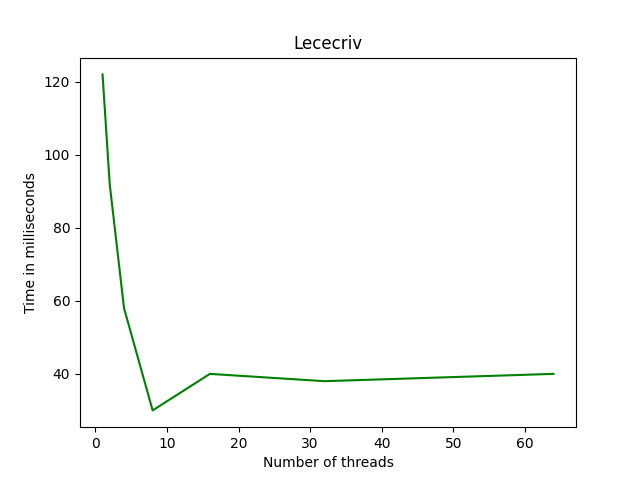
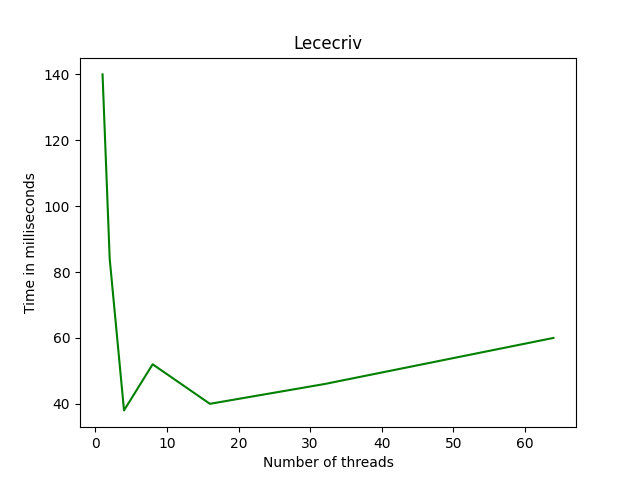
change SemFile

diff --git a/Part2/src/lececrivOurSem.c b/Part2/src/lececrivOurSem.c
@@ -8,14 +8,15 @@
 #include <unistd.h>
 #include <sys/wait.h>
 #include <semaphore.h>
+#include "../Headers/OurSem.h"
 
 
-pthread_mutex_t mutex_readcount;
-pthread_mutex_t mutex_writecount;
-pthread_mutex_t mutex;
+int mutex_readcount;
+int mutex_writecount;
+int mutex;
 
-sem_t wsem;  // accès à la db
-sem_t rsem;
+struct Our_semInit* wsem;  // accès à la db
+struct Our_semInit* rsem;
 
 int readcount=0; // nombre de readers
 int writecount=0;
@@ -39,35 +40,35 @@ void* writer(void* id){
 
     while(total_writings < writings){
             ////printf("le writer %d accède à sa fonction et est bloqué !!\n",id_int);
-            pthread_mutex_lock(&mutex_writecount);
+            lock(&mutex_writecount);
                   ////printf("le writer %d est débloqué, ouf !\n",id_int);
                   writecount++;
                   if(writecount == 1){
                       ////printf("le writer %d attend un reader et debloque le mutex\n",id_int);
-                      sem_wait(&rsem); //attend plus de readers
+                      OurSemWait(rsem); //attend plus de readers
 
                   }
-            pthread_mutex_unlock(&mutex_writecount);
+            unlock(&mutex_writecount);
             
             //printf("le writer %d attend un signal\n",id_int);
-            sem_wait(&wsem);
+            OurSemWait(wsem);
               //printf("le writer %d a reçu un signal et lance sa fonction\n",id_int);
               // section critique, un seul writer à la fois
               if(total_writings != writings){
                 processing_CPU();
                 total_writings++;
               }
-            sem_post(&wsem);
+            OurSemPost(wsem);
             //printf("le writer %d envoie un signal wsem et est bloqué\n",id_int);
 
-            pthread_mutex_lock(&mutex_writecount);
+            lock(&mutex_writecount);
                   //printf("le writer %d est débloqué, deuxième ouf !\n",id_int);
                   writecount--;
                   if (writecount == 0){
                       //printf("le writer %d envoie un signal rsem et debloque le mutex\n",id_int);
-                      sem_post(&rsem); //autorise les readers
+                      OurSemPost(rsem); //autorise les readers
                   }
-            pthread_mutex_unlock(&mutex_writecount);
+            unlock(&mutex_writecount);
             //printf("le writer %d finit sa boucle\n",id_int);
                       
 
@@ -85,43 +86,43 @@ void* reader(void* id){
     while(total_readings < readings){
             //printf("le reader %d accède à sa fonction et est bloqué !!\n",id_int);
             
-            pthread_mutex_lock(&mutex); //un seul reader à la fois a acces à sem_wait
+            lock(&mutex); //un seul reader à la fois a acces à sem_wait
             //printf("le reader %d est débloqué et attend un signal rsem\n",id_int);
                   
-            sem_wait(&rsem); //n'avoir qu'un seul reader qui lit
+            OurSemWait(rsem); //n'avoir qu'un seul reader qui lit
             //printf("le reader %d est bloqué et est a reçu son signal rsem\n",id_int);
                   
-            pthread_mutex_lock(&mutex_readcount);
+            lock(&mutex_readcount);
               // section critique
               readcount++;
               if (readcount==1)
               { // arrivée du premier reader
                 //printf("le reader %d est solo et attend wsem\n",id_int);
         
-                sem_wait(&wsem);// je suis entrain de lire, vous ne pouvez plus écrire
+                OurSemWait(wsem);// je suis entrain de lire, vous ne pouvez plus écrire
               }
               if(writecount == 1){
                   //printf("le reader %d est bloqué envoie un signal rsem\n",id_int);
-                  sem_post(&wsem);
+                  OurSemPost(wsem);
               }
-            pthread_mutex_unlock(&mutex_readcount);
-            sem_post(&rsem);
+            unlock(&mutex_readcount);
+            OurSemPost(rsem);
 
-            pthread_mutex_unlock(&mutex);
+            unlock(&mutex);
 
             if(total_readings != readings){
                 total_readings++;
                 processing_CPU();
             }
 
-            pthread_mutex_lock(&mutex_readcount);
+            lock(&mutex_readcount);
               // section critique
               readcount--;
               if(readcount==0)
               { // départ du dernier reader
-                sem_post(&wsem);
+                OurSemPost(wsem);
               }
-            pthread_mutex_unlock(&mutex_readcount);
+            unlock(&mutex_readcount);
     }
     return (NULL);
 }
@@ -142,15 +143,15 @@ int main(int argc, char* argv[]){
     readings = atoi(argv[3]);
     writings = atoi(argv[4]);
 
-    sem_init(&wsem,0,1);
-    sem_init(&rsem,0,1);
+    wsem = InitOurSem(1);
+    rsem = InitOurSem(1);
 
     pthread_t Readers_threads[nb_readers];
     pthread_t Writers_threads[nb_writers];
 
-    pthread_mutex_init(&mutex_writecount,NULL);
-    pthread_mutex_init(&mutex_readcount,NULL);
-    pthread_mutex_init(&mutex,NULL);
+    mutex_writecount = 0;
+    mutex_readcount = 0;
+    mutex = 0;
 
         // Create n Readers
     for (int i = 0; i < nb_writers; i++) {
@@ -183,11 +184,8 @@ int main(int argc, char* argv[]){
     }
 
 
-    sem_destroy(&wsem);
-    sem_destroy(&rsem);
-    pthread_mutex_destroy(&mutex_readcount);
-    pthread_mutex_destroy(&mutex_writecount);
-    pthread_mutex_destroy(&mutex);
+    OurSemDestroy(wsem);
+    OurSemDestroy(rsem);
 
     //printf("Total readings = %d and Total writings = %d\n", total_readings,total_writings);
     //t2 = clock() - t1;

diff --git a/Part2/src/prodconsOurSem.c b/Part2/src/prodconsOurSem.c
@@ -22,7 +22,7 @@ struct Our_semInit* full;
 
 int total_production = 0;
 int total_consumption = 0;
-int mutex;
+int mutex  = 0;
 
  //le buffer est une variable partagée
                               //il faut la mettre dans un mutex
@@ -42,8 +42,7 @@ int mutex;
 */
 
 int number_of_element = 0;
-sem_t empty; //compte le nombre de places vides, intitialisé à 8
-sem_t full; //compte le nomnre de places utilisées,intitialisé à 0
+
 
 void processing_CPU(void){
     int count = 0;
@@ -84,21 +83,21 @@ void *producers(void *id){
     int item = (int) random() % MODULO;
     while (total_production < prod){  
         //printf("le producteur attend le signal, il a produit %d unités\n",total_production);
-        sem_wait(&empty); //attend une place dans le buffer
-        pthread_mutex_lock(&mutex_buffer);
+        OurSemWait(empty); //attend une place dans le buffer
+        lock(&mutex);
             if(total_production != prod){
                 insert(number_of_element,item,id_int);
                 number_of_element = (number_of_element +1);
                 total_production++;
             }
-        pthread_mutex_unlock(&mutex_buffer);
-        sem_post(&full) ; //incrémente le nombre de place de 1
+        unlock(&mutex);
+        OurSemPost(full) ; //incrémente le nombre de place de 1
         //printf("le producteur envoie le signal\n");
         processing_CPU();
     }
     //printf("le producteur sort de la boucle\n");  
     if(nb_of_producers > 1){
-        sem_post(&empty); //si par malheur un consommateur est encore bloqué
+        OurSemPost(empty); //si par malheur un consommateur est encore bloqué
     }
     return(NULL);   
 }
@@ -127,7 +126,7 @@ void *consumers(void *id){
     //printf("le consommateur %d sort de sa boucle\n",id_int);
     
     if(nb_of_consumers > 1){
-        sem_post(&full); //si par malheur un consommateur est encore bloqué
+        OurSemPost(full); //si par malheur un consommateur est encore bloqué
     }
     
     return(NULL);
@@ -150,8 +149,6 @@ int main(int argc, char* argv[]){
 
     empty = InitOurSem(SIZE);
     full = InitOurSem(0);
-
-    int mutex = 0;
 
         // Create n producers
     for (int i = 0; i < nb_of_producers; i++) {
@@ -184,8 +181,7 @@ int main(int argc, char* argv[]){
 
 
     OurSemDestroy(empty);
-    ourSemDestroy(full);
-    free(mutex);
+    OurSemDestroy(full);
 
     //printf("Total items produced = %d and Total items consumed = %d\n", total_production,total_consumption);
     //t2 = clock() - t1;

diff --git a/Part2/Headers/OurSem.h b/Part2/Headers/OurSem.h
@@ -7,20 +7,14 @@ struct Our_semInit{
     int Lock;
     int val;
 };
-<<<<<<< HEAD
 
-int unlock(int* x);
-int lock(int* x);
-=======
 void unlock(int* x);
 int* lock(int* x);
-void OurSemWait(struct Our_semInit* sem);
-void OurSemWait(struct Our_semInit* sem);
->>>>>>> refs/remotes/origin/main
 
 void OurSemWait(struct Our_semInit* sem);
 void OurSemPost(struct Our_semInit* sem);
 int OurSemDestroy(struct Our_semInit * sem);
+struct Our_semInit* InitOurSem(int x);
 
 
 #endif
